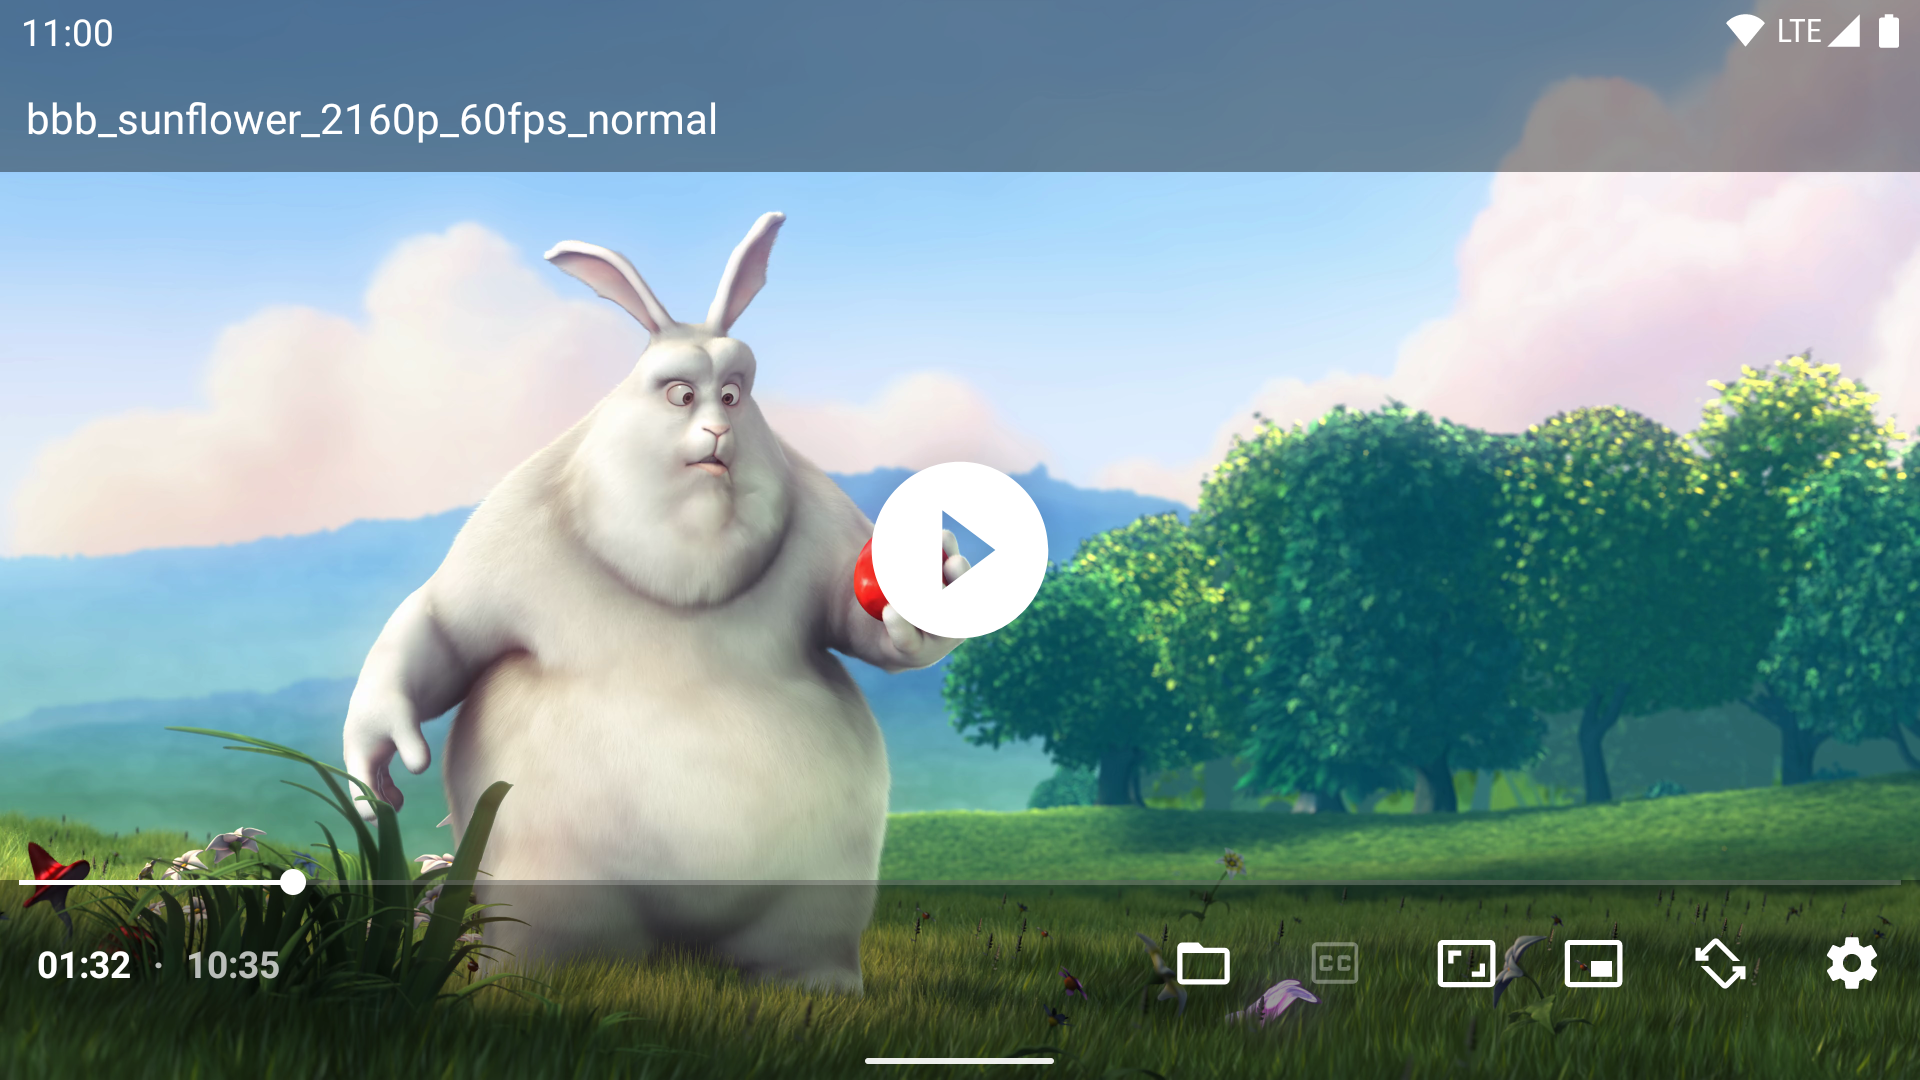
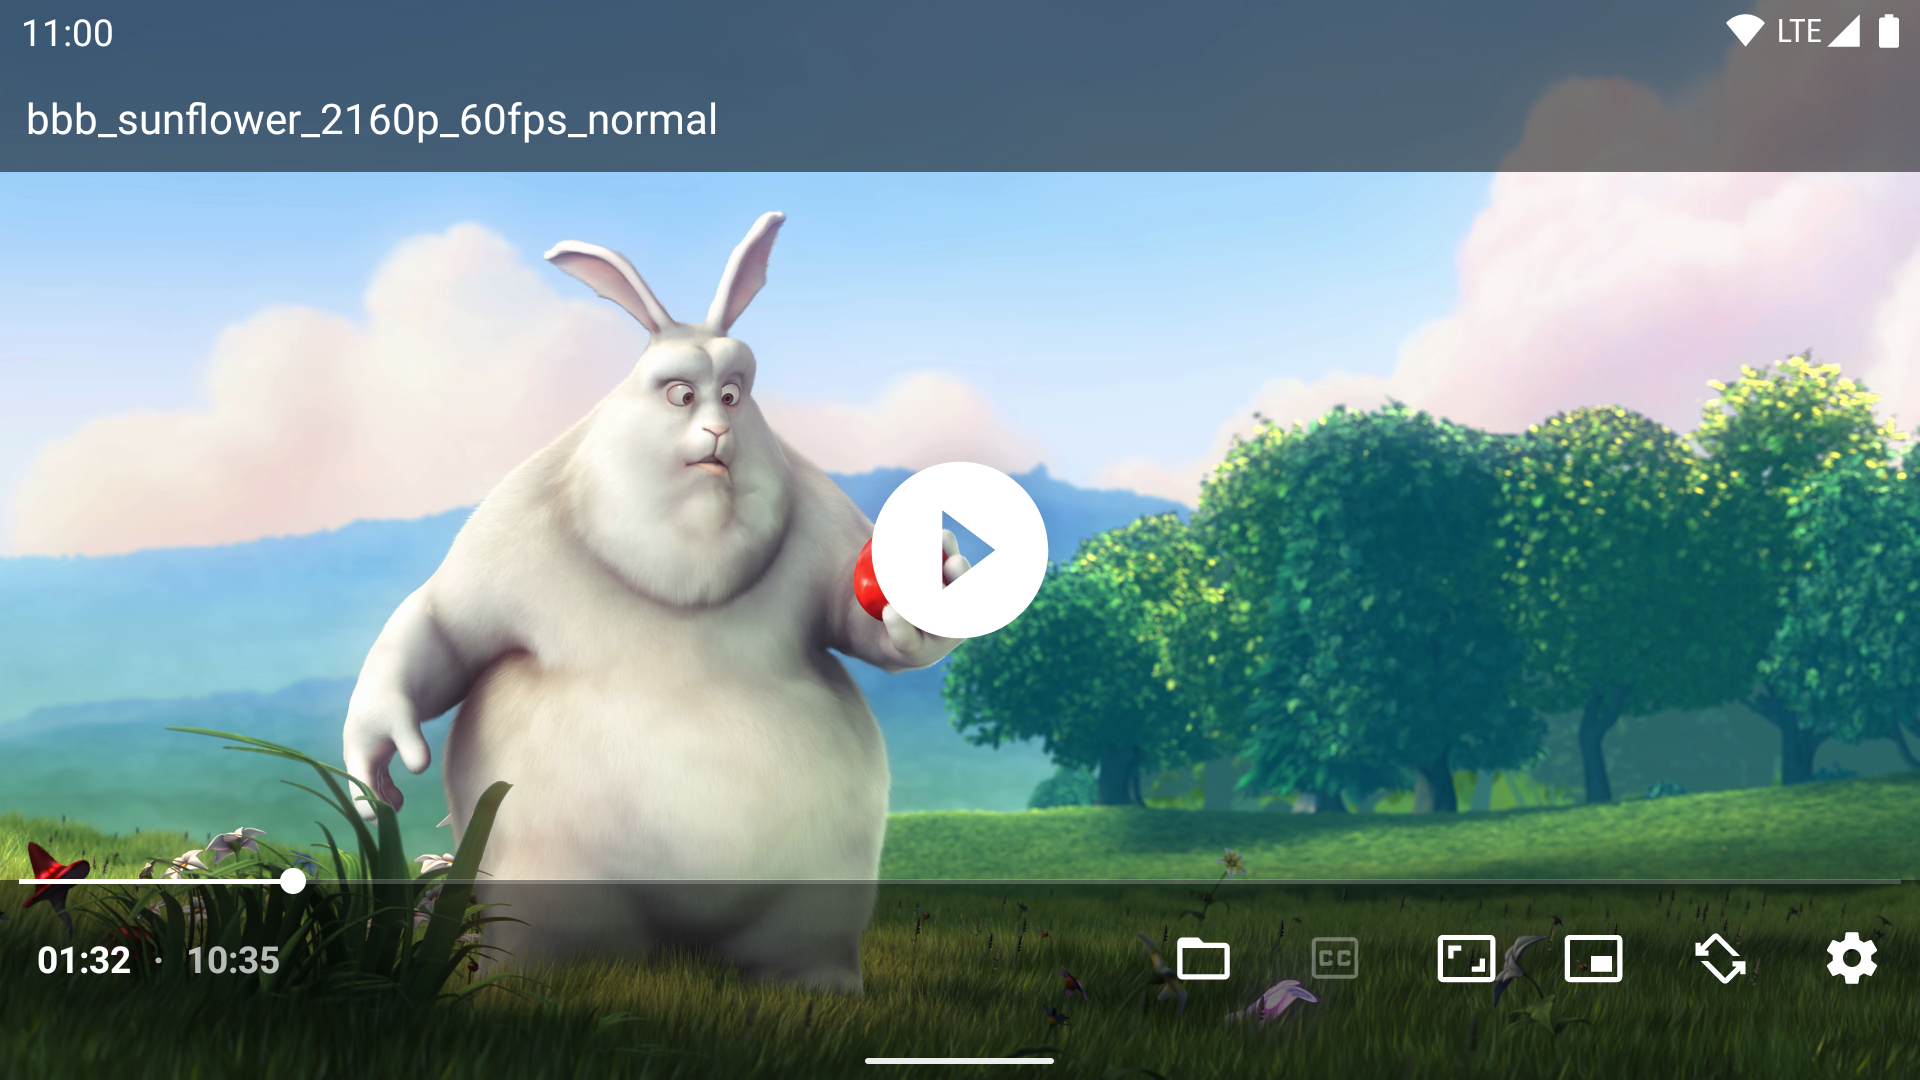
Fix UI overlap with navigation bar, unify colors, use darker shade

diff --git a/app/src/main/java/com/brouken/player/PlayerActivity.java b/app/src/main/java/com/brouken/player/PlayerActivity.java
@@ -298,12 +298,31 @@ public class PlayerActivity extends Activity {
                 view.setPadding(0, windowInsets.getSystemWindowInsetTop(),
                         0, windowInsets.getSystemWindowInsetBottom());
 
-                titleView.setPadding(windowInsets.getSystemWindowInsetLeft() + titleViewPadding, titleViewPadding,
-                        windowInsets.getSystemWindowInsetRight() + titleViewPadding, titleViewPadding);
+                int insetLeft = windowInsets.getSystemWindowInsetLeft();
+                int insetRight = windowInsets.getSystemWindowInsetRight();
 
-                // TODO: Improve bottom bar with bottom notch / "Double cutout"
-                findViewById(R.id.exo_bottom_bar).setPadding(windowInsets.getSystemWindowInsetLeft(), 0,
-                        windowInsets.getSystemWindowInsetRight(), 0);
+                int paddingLeft = 0;
+                int marginLeft = insetLeft;
+
+                int paddingRight = 0;
+                int marginRight = insetRight;
+
+                if (Build.VERSION.SDK_INT >= 28 && windowInsets.getDisplayCutout() != null) {
+                    if (windowInsets.getDisplayCutout().getSafeInsetLeft() == insetLeft) {
+                        paddingLeft = insetLeft;
+                        marginLeft = 0;
+                    }
+                    if (windowInsets.getDisplayCutout().getSafeInsetRight() == insetRight) {
+                        paddingRight = insetRight;
+                        marginRight = 0;
+                    }
+                }
+
+                Utils.setViewParams(titleView, paddingLeft + titleViewPadding, titleViewPadding, paddingRight + titleViewPadding, titleViewPadding,
+                        marginLeft, marginRight);
+
+                Utils.setViewParams(findViewById(R.id.exo_bottom_bar), paddingLeft, 0, paddingRight, 0,
+                        marginLeft, marginRight);
 
                 findViewById(R.id.exo_progress).setPadding(windowInsets.getSystemWindowInsetLeft(), 0,
                         windowInsets.getSystemWindowInsetRight(), 0);

diff --git a/app/src/main/java/com/brouken/player/Utils.java b/app/src/main/java/com/brouken/player/Utils.java
@@ -11,6 +11,7 @@ import android.os.Build;
 import android.provider.OpenableColumns;
 import android.util.Log;
 import android.view.View;
+import android.widget.FrameLayout;
 import android.widget.ImageButton;
 
 import com.google.android.exoplayer2.Format;
@@ -240,5 +241,13 @@ class Utils {
         if (BuildConfig.DEBUG) {
             Log.d("JustPlayer", text);
         }
+    }
+
+    public static void setViewParams(final View view, int paddingLeft, int paddingTop, int paddingRight, int paddingBottom, int marginLeft, int marginRight) {
+        view.setPadding(paddingLeft, paddingTop, paddingRight, paddingBottom);
+
+        final FrameLayout.LayoutParams layoutParams = (FrameLayout.LayoutParams) view.getLayoutParams();
+        layoutParams.setMargins(marginLeft, 0, marginRight, 0);
+        view.setLayoutParams(layoutParams);
     }
 }
